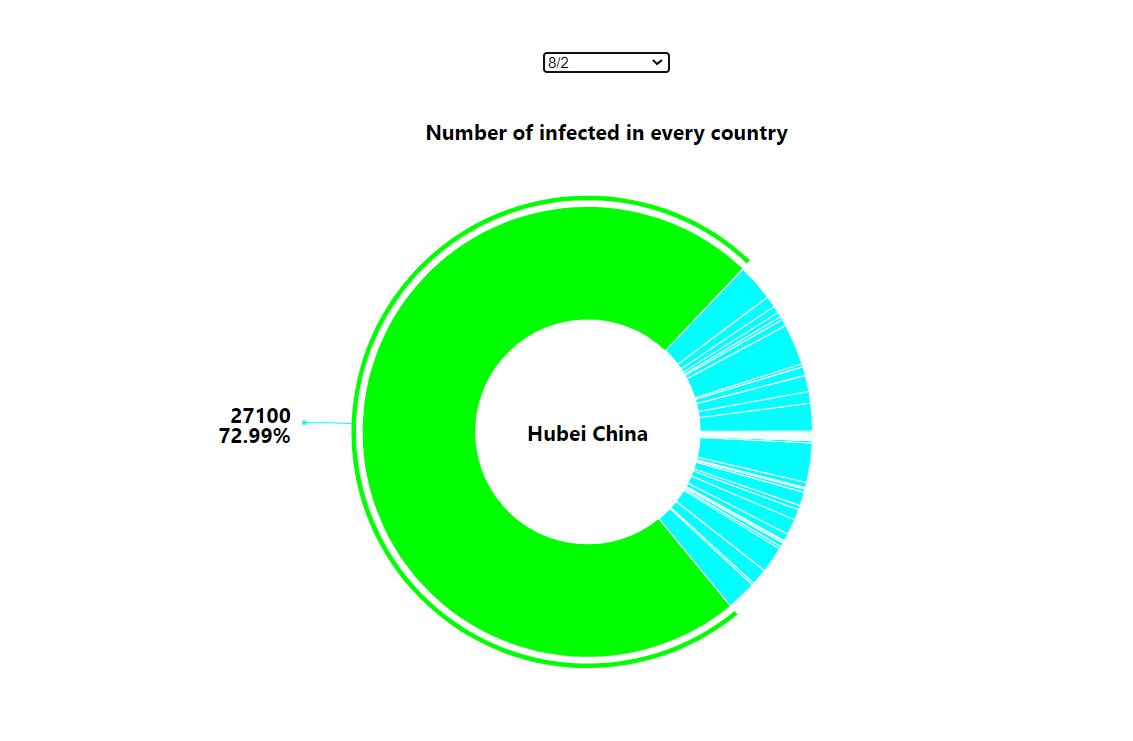
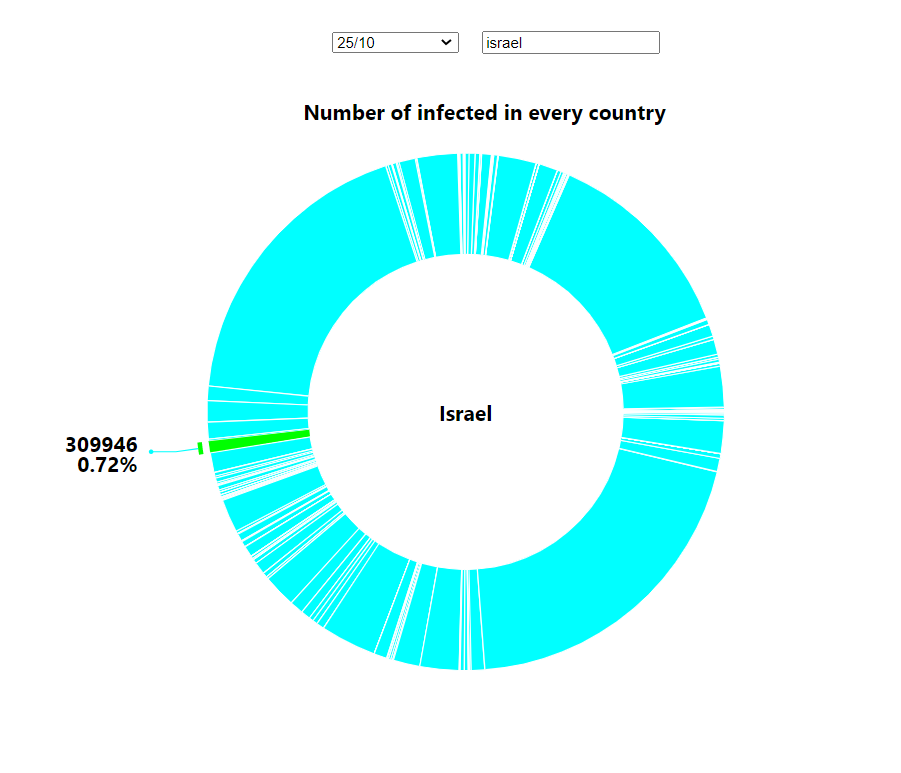
finished exc

diff --git a/charts/src/components/Charts.js b/charts/src/components/Charts.js
@@ -87,6 +87,7 @@ function Charts(props){
     const [pieData, setPieData] = useState([]);
     const [datesArr, setDatesArr] = useState([]);
     const [curDate, setCurDate] = useState();
+    const [countrySearch, setCountrySearch] = useState();
 
     async function getData(){
         const data = await axios.get('https://raw.githubusercontent.com/CSSEGISandData/COVID-19/master/csse_covid_19_data/csse_covid_19_time_series/time_series_covid19_confirmed_global.csv');
@@ -129,6 +130,17 @@ function Charts(props){
         }
     };
 
+    function getSearch(e){
+        setCountrySearch(e.target.value);
+        for (let i = 0; i < pieData.length; i++) {
+            const name = pieData[i].name.toLowerCase();
+            if (name.includes(e.target.value)){
+                onPieEnter(pieData[i], i);
+                break;
+            };
+        }
+    }
+
     useEffect( () => { 
         getData();
         const dataInterval = setInterval(getData, 60000);
@@ -146,7 +158,7 @@ function Charts(props){
             {fullData.filter(country => country['Province/State'] !== option1['Province/State'] || country['Country/Region'] !== option1['Country/Region']).map(country => <option value={country['Province/State'] + ':' + country['Country/Region']}>{country['Province/State'] + ' ' + country['Country/Region']}</option>)}
             </select>}
             <br/>
-            {(option1 && option2) &&  <h3>Number of infected over days<LineChart className="chart1" width={1000} height={600}>
+            {(option1 && option2) && <div> <h3>Number of infected over days</h3><LineChart className="chart1" width={1000} height={600}>
                             <CartesianGrid/>
                             <XAxis dataKey="date" allowDuplicatedCategory={false}/>
                             <YAxis className = "Yaxis" dataKey="infected"/>
@@ -155,13 +167,14 @@ function Charts(props){
                             {[option1, option2].map((s, index) => (
                             <Line dataKey="infected" data={s["dates"]} name={s['Province/State'] + ' ' + s['Country/Region']} key={index} stroke =  {colors[index]}/>
                             ))}
-                        </LineChart></h3>
+                        </LineChart></div>
             }
             <br/>
             <select onChange={e => getPieData(e)}>
                 <option>choose date ...</option>
             {datesArr.map(date => <option value={date}>{date}</option>)}
             </select>
+            {curDate && <input style={{width:"150px"}} type="text" id="name" onChange={(e) => getSearch(e)} placeholder="enter country name"/>}
             {curDate && <h3>Number of infected in every country
             <PieChart className="chart2" width={800} height={600}>
                 <Pie
@@ -170,8 +183,8 @@ function Charts(props){
                 data={pieData}
                 cx={400}
                 cy={250}
-                innerRadius={100}
-                outerRadius={200}
+                innerRadius={140}
+                outerRadius={230}
                 fill="cyan"
                 dataKey="infected"
                 onMouseEnter={onPieEnter}

diff --git a/charts/src/App.css b/charts/src/App.css
@@ -2,15 +2,6 @@
   text-align: center;
 }
 
-@keyframes App-logo-spin {
-  from {
-    transform: rotate(0deg);
-  }
-  to {
-    transform: rotate(360deg);
-  }
-}
-
 .chart1 {
   margin-left: 20%;
   margin-top: 1%;
@@ -29,4 +20,8 @@ select {
 
 .second {
   color: red;
+}
+
+h3 {
+  width: 100%;
 }
